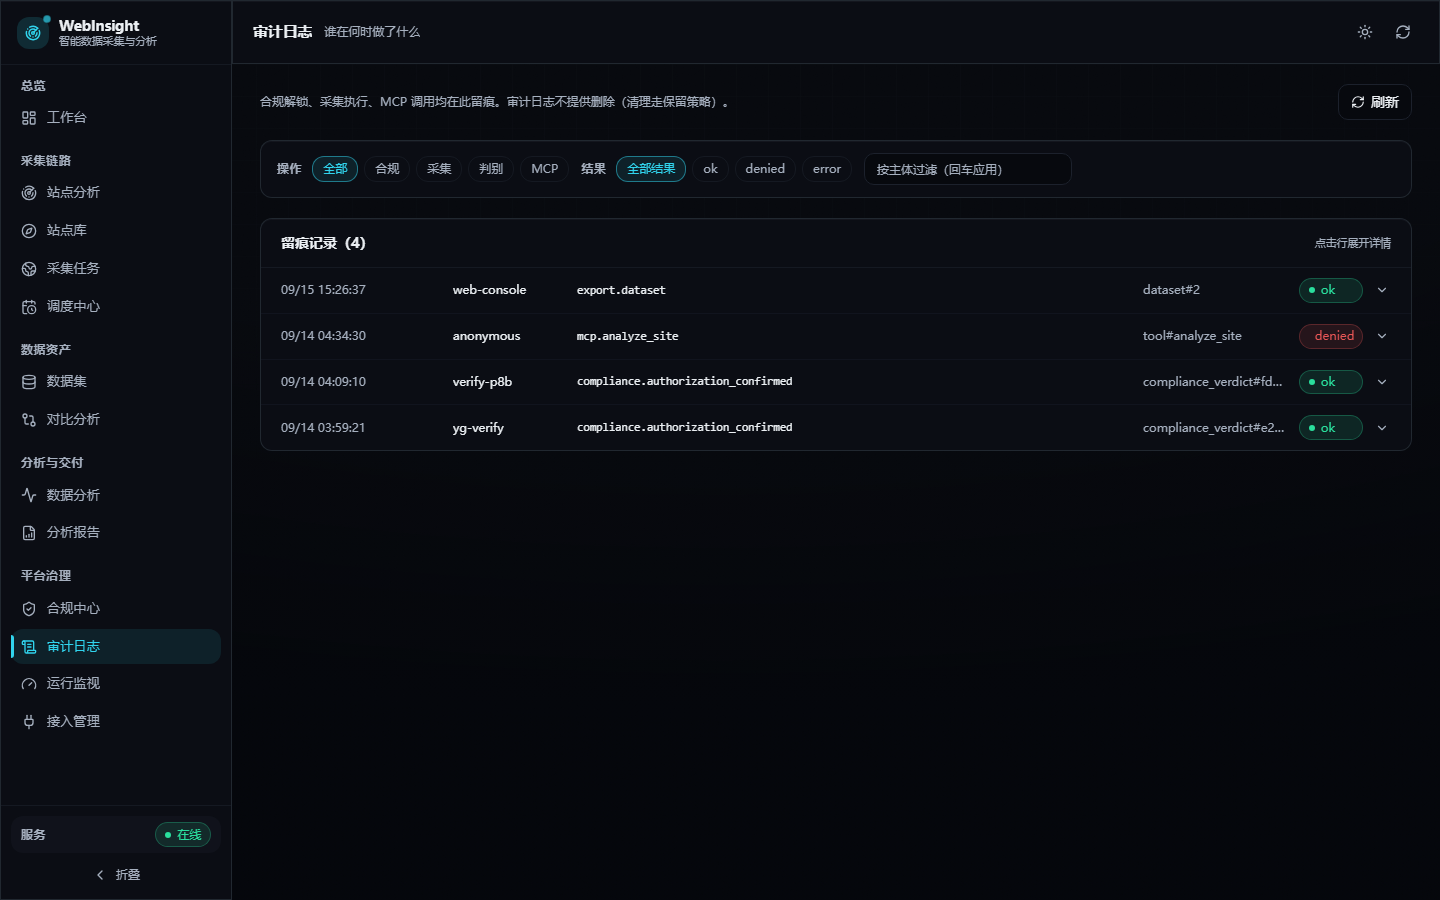
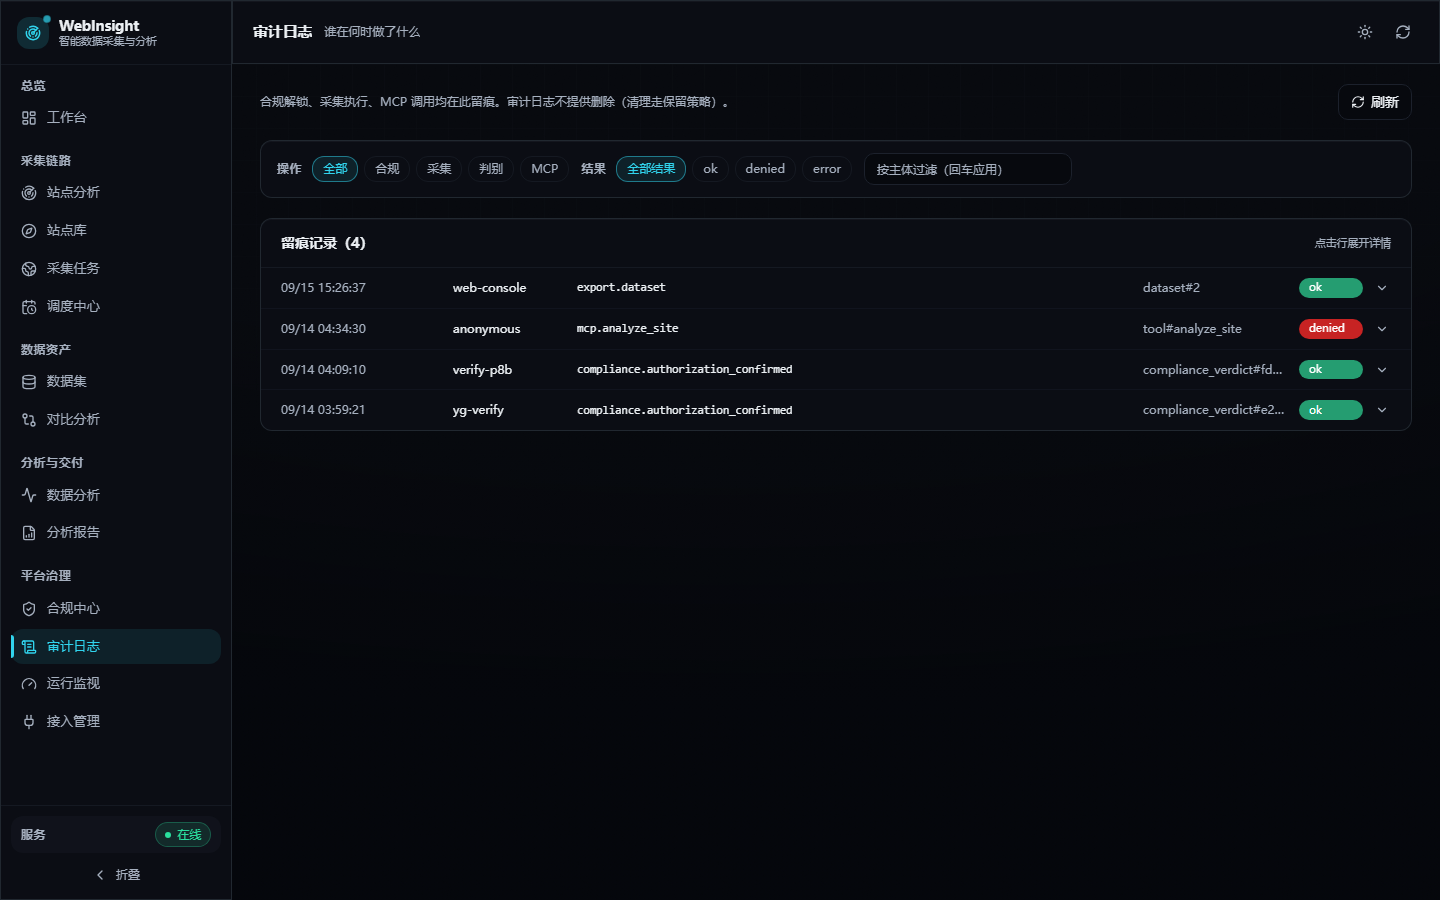
feat(ui-v5): 逐页推广第二刀 — 6 页状态/判定列实底 pill（Sites/Audit/JobDetail/Discover/Integrations/Schedules）+ 16 路由体检全过

diff --git a/frontend/src/pages/Discover.tsx b/frontend/src/pages/Discover.tsx
@@ -82,19 +82,19 @@ interface AnalyzeResponse {
 const DECISION_META = {
   proceed: {
     label: '可执行',
-    cls: 'badge-ok',
+    cls: 'pill-ok',
     icon: CheckCircle2,
     hint: '公开可访问且不存在技术隔离，可直接进入采集',
   },
   confirm_required: {
     label: '待确认',
-    cls: 'badge-warn',
+    cls: 'pill-warn',
     icon: AlertTriangle,
     hint: '需补齐授权声明后执行',
   },
   blocked: {
     label: '不可采',
-    cls: 'badge-err',
+    cls: 'pill-err',
     icon: XCircle,
     hint: '存在技术隔离或数据属性受限，请使用替代数据源',
   },
@@ -234,7 +234,7 @@ export default function DiscoverPage() {
                   <h2 className="num truncate text-[1.05rem] font-semibold">
                     {result.profile.domain}
                   </h2>
-                  <span className={cn('badge-dot', DECISION_META[result.compliance.decision]?.cls ?? 'badge-info')}>
+                  <span className={cn('pill', DECISION_META[result.compliance.decision]?.cls ?? 'pill-info')}>
                     {DECISION_META[result.compliance.decision]?.label ?? '已探测'}
                   </span>
                   {result.cached && <span className="chip">命中缓存</span>}
@@ -654,7 +654,7 @@ function ComplianceCard({ compliance }: { compliance: ComplianceBlock }) {
           <ShieldCheck className="h-4 w-4 text-primary" />
           <h3 className="text-sm font-semibold">合规判定</h3>
         </div>
-        <span className={cn('badge-dot', meta.cls)}>{meta.label}</span>
+        <span className={cn('pill', meta.cls)}>{meta.label}</span>
       </div>
 
       <div className="mb-4 flex items-start gap-2.5 rounded-lg bg-muted/40 px-3 py-2.5">

diff --git a/frontend/src/pages/Integrations.tsx b/frontend/src/pages/Integrations.tsx
@@ -64,10 +64,11 @@ interface SelftestResult {
   auth_configured: boolean
 }
 
+// v5：结果列用实底 pill（参考图统一语言）
 const RESULT_TONE: Record<string, string> = {
-  ok: 'badge-ok',
-  denied: 'badge-err',
-  error: 'badge-err',
+  ok: 'pill-ok',
+  denied: 'pill-err',
+  error: 'pill-err',
 }
 
 /** 配置片段：token 用占位符——本页绝不显示 token 原文 */
@@ -183,11 +184,11 @@ export default function IntegrationsPage() {
             <div className="flex flex-wrap items-center gap-2">
               <Plug className="h-4 w-4 text-primary" />
               <span className="mono-tag">POST /mcp</span>
-              <span className="badge-dot badge-ok">在线</span>
+              <span className="pill pill-ok">在线</span>
               <span
                 className={cn(
-                  'badge-dot',
-                  info?.auth_configured ? 'badge-ok' : 'badge-warn',
+                  'pill',
+                  info?.auth_configured ? 'pill-ok' : 'pill-warn',
                 )}
               >
                 {info?.auth_configured ? '鉴权已配置' : '鉴权未配置'}
@@ -333,7 +334,7 @@ export default function IntegrationsPage() {
                       <span className="tabular-nums text-muted-foreground">
                         {formatDateTime(row.ts)}
                       </span>
-                      <span className={cn('badge-dot', RESULT_TONE[row.result] ?? 'badge-info')}>
+                      <span className={cn('pill', RESULT_TONE[row.result] ?? 'pill-info')}>
                         {row.result}
                       </span>
                     </div>

diff --git a/frontend/src/pages/JobDetail.tsx b/frontend/src/pages/JobDetail.tsx
@@ -58,13 +58,14 @@ interface CollectItemRow {
   payload: Record<string, unknown> | null
 }
 
+// v5：任务状态列用实底 pill（参考图统一语言）
 const STATUS_TONE: Record<string, string> = {
-  succeeded: 'badge-ok',
-  partial: 'badge-warn',
-  failed: 'badge-err',
-  running: 'badge-info',
-  waiting_human: 'badge-warn',
-  pending: 'badge-info',
+  succeeded: 'pill-ok',
+  partial: 'pill-warn',
+  failed: 'pill-err',
+  running: 'pill-info',
+  waiting_human: 'pill-warn',
+  pending: 'pill-info',
 }
 
 const STATUS_LABEL: Record<string, string> = {
@@ -294,7 +295,7 @@ export default function JobDetailPage() {
             <ArrowLeft className="h-4 w-4" />
           </Link>
           <h2 className="text-base font-semibold">任务 #{job.job_id}</h2>
-          <span className={cn('badge-dot', STATUS_TONE[job.status] ?? 'badge-info')}>
+          <span className={cn('pill', STATUS_TONE[job.status] ?? 'pill-info')}>
             {STATUS_LABEL[job.status] ?? job.status}
           </span>
           <span className="text-xs text-muted-foreground">计划 #{job.plan_id}</span>
@@ -469,7 +470,7 @@ export default function JobDetailPage() {
                     {task.capability ? `能力：${task.capability}` : '未使用采集能力'}
                   </span>
                   {task.attempts > 1 && (
-                    <span className="badge-dot badge-warn shrink-0">
+                    <span className="pill pill-warn shrink-0">
                       尝试 {task.attempts} 次
                     </span>
                   )}

diff --git a/frontend/src/pages/Sites.tsx b/frontend/src/pages/Sites.tsx
@@ -80,10 +80,11 @@ interface ProfileDetail {
   last_verified: string | null
 }
 
+// v5：判定列用实底 pill（参考图统一语言）
 const DECISION_TONE: Record<string, string> = {
-  proceed: 'badge-ok',
-  confirm_required: 'badge-warn',
-  blocked: 'badge-err',
+  proceed: 'pill-ok',
+  confirm_required: 'pill-warn',
+  blocked: 'pill-err',
 }
 
 const DECISION_LABEL: Record<string, string> = {
@@ -326,8 +327,8 @@ export default function SitesPage() {
                   <span className="truncate text-sm font-medium">{profile.domain}</span>
                   <span
                     className={cn(
-                      'badge-dot shrink-0',
-                      DECISION_TONE[profile.decision ?? ''] ?? 'badge-info',
+                      'pill shrink-0',
+                      DECISION_TONE[profile.decision ?? ''] ?? 'pill-info',
                     )}
                   >
                     {DECISION_LABEL[profile.decision ?? ''] ?? '未知'}
@@ -382,10 +383,10 @@ export default function SitesPage() {
                   <SheetTitle className="truncate">{detail.domain}</SheetTitle>
                   <span
                     className={cn(
-                      'badge-dot shrink-0',
+                      'pill shrink-0',
                       DECISION_TONE[
                         String((detail.compliance as { decision?: string }).decision ?? '')
-                      ] ?? 'badge-info',
+                      ] ?? 'pill-info',
                     )}
                   >
                     {DECISION_LABEL[

diff --git a/frontend/src/pages/Audit.tsx b/frontend/src/pages/Audit.tsx
@@ -31,10 +31,11 @@ interface AuditItem {
   ip: string | null
 }
 
+// v5：结果列用实底 pill（参考图统一语言）
 const RESULT_TONE: Record<string, string> = {
-  ok: 'badge-ok',
-  denied: 'badge-err',
-  error: 'badge-err',
+  ok: 'pill-ok',
+  denied: 'pill-err',
+  error: 'pill-err',
 }
 
 const ACTION_FILTERS = [
@@ -241,7 +242,7 @@ export default function AuditPage() {
                         ? `${item.target_type}#${item.target_id ?? ''}`
                         : '—'}
                     </span>
-                    <span className={cn('badge-dot shrink-0', RESULT_TONE[item.result] ?? 'badge-info')}>
+                    <span className={cn('pill shrink-0', RESULT_TONE[item.result] ?? 'pill-info')}>
                       {item.result}
                     </span>
                     <ChevronDown

diff --git a/frontend/src/pages/Schedules.tsx b/frontend/src/pages/Schedules.tsx
@@ -417,7 +417,7 @@ export default function SchedulesPage() {
                     <div className="flex flex-wrap items-center gap-2">
                       <span className="text-sm font-semibold">{item.name}</span>
                       <span className="badge-dot badge-info">{item.frequency_text}</span>
-                      {!item.enabled && <span className="badge-dot badge-warn">已暂停</span>}
+                      {!item.enabled && <span className="pill pill-warn">已暂停</span>}
                     </div>
                     <div className="mt-1 truncate text-xs text-muted-foreground">
                       计划 #{item.plan_id}
